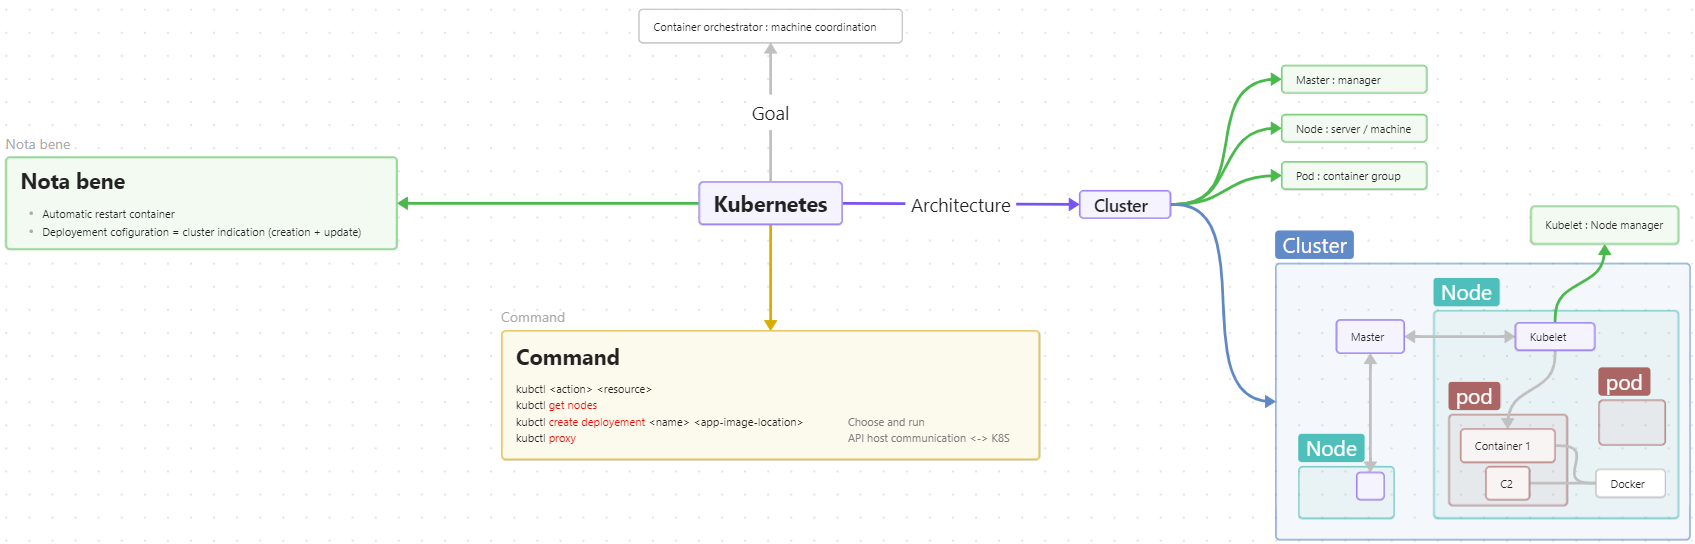
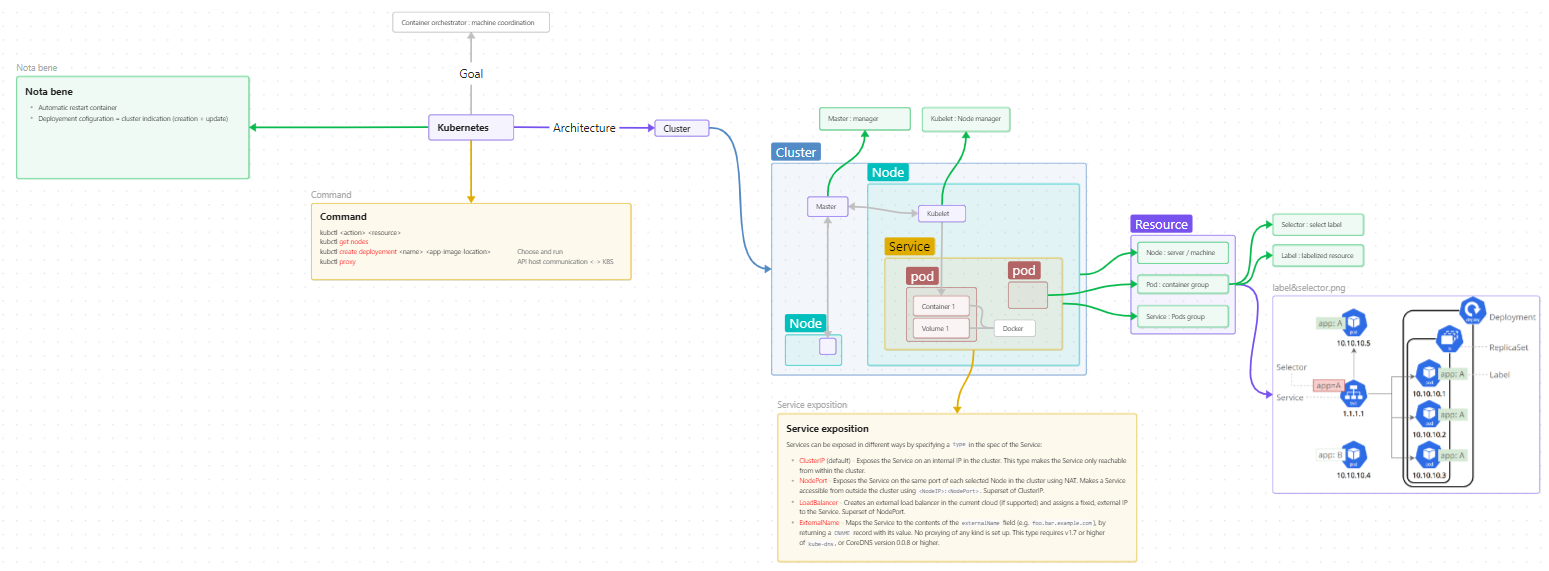
Add :      Service      Reource      Label & Selector

diff --git a/Service exposition.md b/Service exposition.md
@@ -1,0 +1,5 @@
+Services can be exposed in different ways by specifying a `type` in the spec of the Service:
+- <span style="color:red">ClusterIP</span> (default) - Exposes the Service on an internal IP in the cluster. This type makes the Service only reachable from within the cluster.
+- <span style="color:red">NodePort</span> - Exposes the Service on the same port of each selected Node in the cluster using NAT. Makes a Service accessible from outside the cluster using `<NodeIP>:<NodePort>`. Superset of ClusterIP.
+- <span style="color:red">LoadBalancer</span> - Creates an external load balancer in the current cloud (if supported) and assigns a fixed, external IP to the Service. Superset of NodePort.
+- <span style="color:red">ExternalName</span> - Maps the Service to the contents of the `externalName` field (e.g. `foo.bar.example.com`), by returning a `CNAME` record with its value. No proxying of any kind is set up. This type requires v1.7 or higher of `kube-dns`, or CoreDNS version 0.0.8 or higher.
